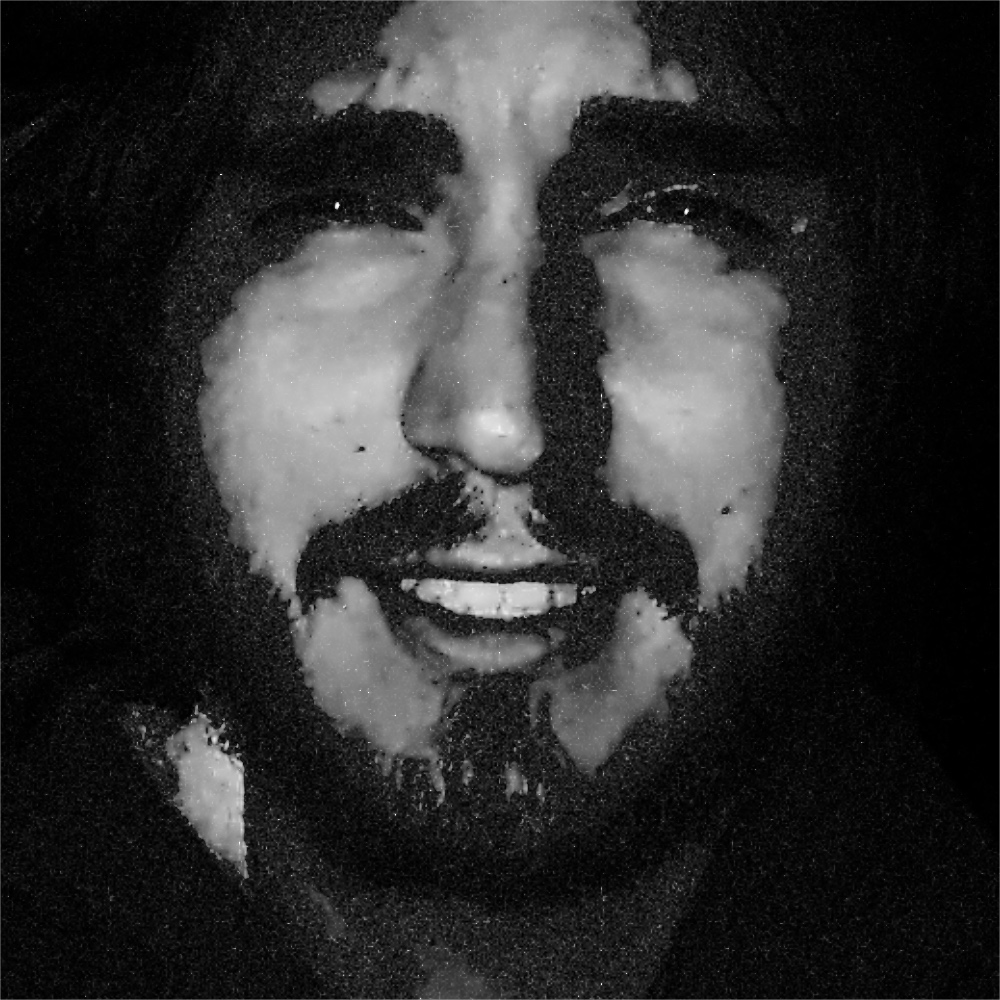
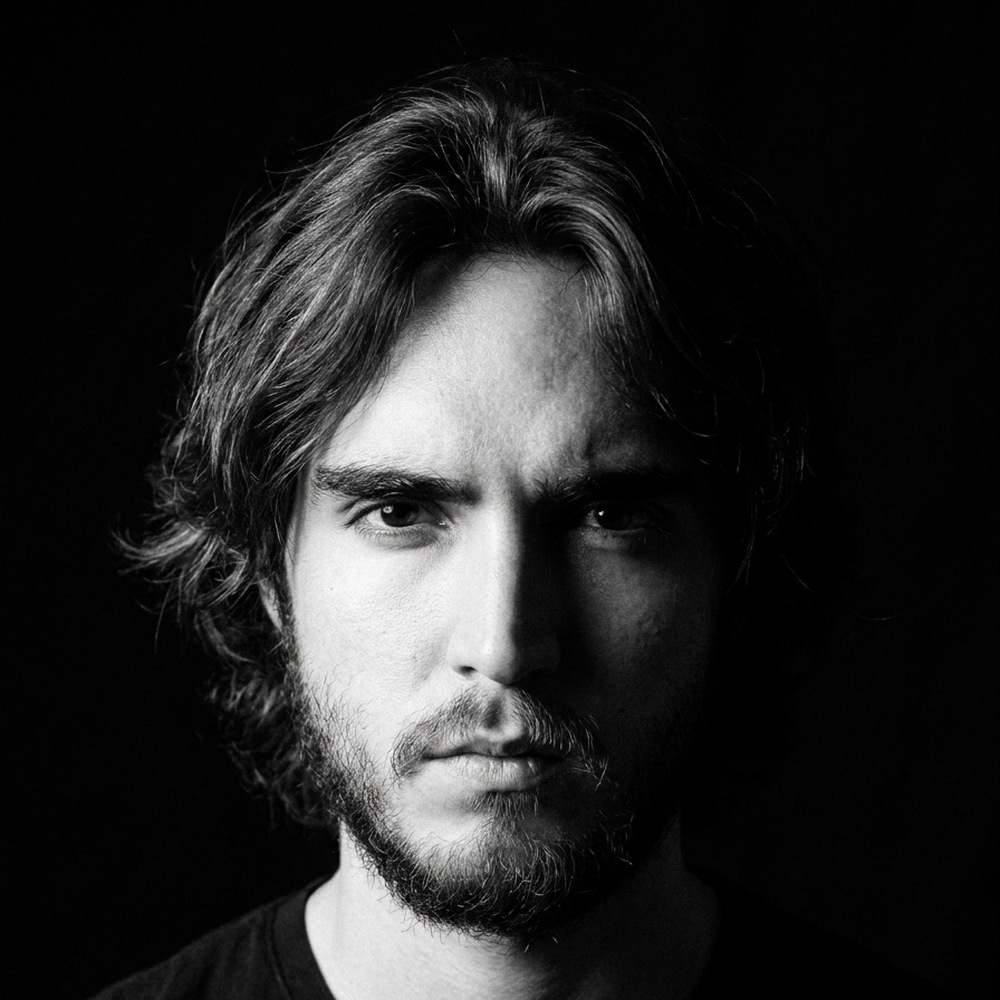
El perfil con las fotos generadas, y Fundadores de vuelta
Tres imágenes hechas en Higgsfield con SUS diez fotos como referencia:
el retrato en blanco y negro, y dos de la mesa —los charts, el ventanal
de noche, la libreta junto al teclado—.

El pelo salía hasta los hombros y era culpa del prompt: decía «pelo
largo» cuando el suyo es de largo medio. Con «apenas cubre las orejas,
NO llega a los hombros» quedó como él. Ese bloque queda anotado porque
es el que hace que salga André y no un modelo de stock.

Se les recorta la franja del logo de Higgsfield del pie: la marca de otra
herramienta no va en la web de la firma.

EN EL PERFIL, dos secciones nuevas. «Lo que hago» —mercados, sistemas,
datos, inteligencia artificial— dice lo que de verdad hace: opera MNQ,
construye el terminal con el que se mide, escribe sus indicadores en
Pine y usa IA como herramienta diaria. Sin títulos que no tiene y sin
cifras: los números cambian cada día y uno viejo quema la credibilidad,
que es el activo del negocio.

«La mesa» son las dos fotos del escritorio. Es el negocio, no decoración.

FUNDADORES vuelve a la landing —él la quitó cuando la foto era la
tratada a mano— ahora con el retrato bueno. Otra vez las TRES listas:
renglón del índice, DOC_SECS y mapa de rótulos.

diff --git a/index.html b/index.html
@@ -1259,6 +1259,33 @@ body.doc-open #indice{display:none}
 .jr-mit i{font-style:normal;font-size:7px;color:var(--faint)}
 @keyframes jrRueda{from{transform:translateX(0)}to{transform:translateX(-50%)}}
 @media (prefers-reduced-motion:reduce){ .jr-cin{animation:none} }
+
+/* ════ FUNDADORES ════ La foto grande y el nombre al lado. En el teléfono se
+   apila con la foto primero: la cara es lo que detiene el scroll. */
+.fund{display:grid;grid-template-columns:minmax(0,.9fr) minmax(0,1.1fr);
+  gap:clamp(28px,5vw,64px);align-items:center}
+.fund-foto{margin:0;position:relative;overflow:hidden;max-width:440px;
+  aspect-ratio:3/4;border:1px solid var(--line)}
+.fund-foto img{width:100%;height:100%;object-fit:cover;display:block}
+.fund-txt h3{font-size:clamp(38px,5.4vw,62px);font-weight:600;line-height:.96;
+  letter-spacing:-.03em;margin:0}
+.fund-rol{font-family:var(--mono);font-size:11px;letter-spacing:.26em;
+  text-transform:uppercase;color:var(--dim);margin:18px 0 0}
+.fund-cita{font-size:clamp(17px,1.9vw,21px);line-height:1.45;font-weight:500;
+  margin:26px 0 0;max-width:26ch;letter-spacing:-.01em}
+.fund-bio{font-size:clamp(14px,1.5vw,15.5px);line-height:1.62;color:var(--dim);
+  margin:18px 0 0;max-width:44ch;font-weight:300}
+.fund-tags{display:flex;gap:22px;flex-wrap:wrap;margin-top:24px;
+  font-family:var(--mono);font-size:10.5px;letter-spacing:.2em;color:var(--faint)}
+.fund-liga{display:inline-block;margin-top:26px;font-family:var(--mono);
+  font-size:11px;letter-spacing:.16em;text-decoration:none;color:var(--txt);
+  border-bottom:1px solid var(--line);padding-bottom:5px;transition:border-color .2s}
+.fund-liga:hover{border-color:currentColor}
+@media(max-width:760px){
+  .fund{grid-template-columns:minmax(0,1fr);gap:26px}
+  .fund-foto{max-width:280px}
+  .fund-cita,.fund-bio{max-width:none}
+}
 </style>
 </head>
 <body>
@@ -1323,8 +1350,11 @@ body.doc-open #indice{display:none}
       <a class="ix" href="#comunidad">
         <span class="nm"><em>Comunidad</em></span><span class="fr">/0.6</span>
       </a>
+      <a class="ix" href="#fundadores">
+        <span class="nm"><em>Fundadores</em></span><span class="fr">/0.7</span>
+      </a>
       <a class="ix" href="app.html">
-        <span class="nm"><em>Terminal</em></span><span class="fr">/0.7</span>
+        <span class="nm"><em>Terminal</em></span><span class="fr">/0.8</span>
       </a>
     </div>
   </div>
@@ -1472,6 +1502,30 @@ body.doc-open #indice{display:none}
   </a>
 </section>
 
+<section id="fundadores">
+  <!-- FUNDADORES · la cara de quien responde, ANTES de Programa: a nadie le
+       mandas tu historial de payouts sin saber a quién. La foto salió de las
+       suyas con Higgsfield — es él, no un banco de imágenes. -->
+  <div class="wrap">
+    <p class="micro rv" style="margin-bottom:30px">Quién responde</p>
+    <div class="fund rv">
+      <figure class="fund-foto">
+        <img src="marca/fotos/fundador.jpg" alt="André Macouzet" loading="lazy" width="896" height="1126">
+      </figure>
+      <div class="fund-txt">
+        <h3>André<br>Macouzet</h3>
+        <p class="fund-rol">Fundador</p>
+        <p class="fund-cita">«La paciencia es la ventaja. Todo lo demás es ruido.»</p>
+        <p class="fund-bio">Futuros del Nasdaq bajo una sola regla: un trade al día.
+          Construye la mesa y el software con el que se mide — el terminal, el
+          journal y los indicadores son suyos.</p>
+        <div class="fund-tags"><span>MERCADOS</span><span>SISTEMAS</span><span>DATOS</span></div>
+        <a class="fund-liga" href="perfil.html">VER PERFIL COMPLETO →</a>
+      </div>
+    </div>
+  </div>
+</section>
+
 <section id="programa">
   <!-- PROGRAM, otra vez con SU PROPIO apartado arriba de Terminal (André:
        «quita el prove it de bootcamp y dale su propio apartado como estaba
@@ -1575,7 +1629,7 @@ body.doc-open #indice{display:none}
   /* El índice ES la navegación: cada sección se abre como documento. Esta lista
      tiene que coincidir con las secciones que existen — un id de más deja un
      renglón del índice que no abre nada. */
-  var DOC_SECS = ['filosofia','mesa','educacion','journal','comunidad','programa'];
+  var DOC_SECS = ['filosofia','mesa','educacion','journal','comunidad','fundadores','programa'];
   document.querySelectorAll('a[href^="#"]').forEach(function(a){
     a.addEventListener('click', function(e){
       var href = a.getAttribute('href');
@@ -1641,7 +1695,8 @@ body.doc-open #indice{display:none}
       ['educacion','// BOOTCAMP /0.3'],
       ['journal','// JOURNAL /0.4'],
       ['programa','// PROGRAM /0.5'],
-      ['comunidad','// COMMUNITY /0.6']
+      ['comunidad','// COMMUNITY /0.6'],
+      ['fundadores','// FUNDADORES /0.7']
     ];
     var ioSec = new IntersectionObserver(function(es){
       es.forEach(function(e){

diff --git a/perfil.html b/perfil.html
@@ -71,6 +71,20 @@
   .retrato .e3{bottom:11px;left:11px;border-right:0;border-top:0}
   .retrato .e4{bottom:11px;right:11px;border-left:0;border-top:0}
 
+  /* lo que hace: cuatro columnas que se apilan solas */
+  .hace{display:grid;grid-template-columns:repeat(auto-fit,minmax(210px,1fr));
+        gap:clamp(22px,3vw,40px);margin-top:34px}
+  .hace-i h3{font-size:19px;font-weight:500;letter-spacing:-.015em}
+  .hace-i h3::before{content:"";display:block;width:22px;height:2px;
+        background:var(--oro);margin-bottom:13px}
+  .hace-i p{font-size:14.5px;line-height:1.62;color:var(--dim);margin-top:10px;font-weight:300}
+
+  /* la mesa, dos fotos a la par */
+  .mesa-fotos{display:grid;grid-template-columns:repeat(auto-fit,minmax(260px,1fr));
+        gap:14px;margin-top:32px}
+  .mesa-fotos figure{margin:0;border:1px solid var(--linea);overflow:hidden}
+  .mesa-fotos img{width:100%;height:100%;object-fit:cover;display:block}
+
   /* ── el cuerpo ── */
   .seccion{margin-top:clamp(76px,10vw,130px);border-top:1px solid var(--linea);
            padding-top:clamp(32px,4vw,50px)}
@@ -134,10 +148,7 @@
     <!-- El retrato. Mientras no haya foto, el hueco se ve a propósito. -->
     <figure class="retrato" id="retrato">
       <i class="esq e1"></i><i class="esq e2"></i><i class="esq e3"></i><i class="esq e4"></i>
-      <div class="vacio">
-        <b>RETRATO</b>
-        <i>Aquí va la foto — luz dura de un lado, fondo negro, camiseta negra.</i>
-      </div>
+      <img src="marca/fotos/retrato.jpg" alt="André Macouzet" width="896" height="1126">
     </figure>
   </header>
 
@@ -168,6 +179,47 @@
            inventa.</p>
       </div>
     </div>
+  </section>
+
+  <section class="seccion">
+    <h2>Lo que hago</h2>
+    <div class="hace">
+      <div class="hace-i">
+        <h3>Mercados</h3>
+        <p>Futuros del Nasdaq, el micro (MNQ). Cuentas de fondeo, retiros cobrados,
+           todo registrado trade por trade. Un solo trade al día.</p>
+      </div>
+      <div class="hace-i">
+        <h3>Sistemas</h3>
+        <p>Construyo el software con el que opero: un terminal que mide cada fill,
+           calcula el drawdown contra las reglas reales de cada fondeadora y marca
+           el día en que una regla se rompió.</p>
+      </div>
+      <div class="hace-i">
+        <h3>Datos</h3>
+        <p>Backtesting e indicadores propios en Pine. Lo que no aguanta la prueba
+           se tira: un indicador que no gana en el histórico no entra a la mesa
+           porque «se ve bien».</p>
+      </div>
+      <div class="hace-i">
+        <h3>Inteligencia artificial</h3>
+        <p>Todo lo que ves aquí —el terminal, la firma, el bootcamp— está
+           construido con IA como herramienta de trabajo diaria, no como adorno.</p>
+      </div>
+    </div>
+  </section>
+
+  <!-- LA MESA, en imágenes: es el negocio, no una decoración -->
+  <section class="seccion">
+    <h2>La mesa</h2>
+    <div class="mesa-fotos">
+      <figure><img src="marca/fotos/mesa-teclado.jpg" alt="André en la mesa, de noche"
+                   loading="lazy" width="896" height="1126"></figure>
+      <figure><img src="marca/fotos/mesa-perfil.jpg" alt="Los dos charts, sesión de noche"
+                   loading="lazy" width="896" height="1126"></figure>
+    </div>
+    <p class="texto">Dos pantallas: una para el contexto, otra para ejecutar. La libreta
+      siempre abierta al lado — cada trade se escribe, con captura, el mismo día.</p>
   </section>
 
   <section class="seccion">
@@ -225,18 +277,7 @@
   var tmr; addEventListener('resize', function(){ clearTimeout(tmr); tmr = setTimeout(pinta, 160); });
 })();
 
-/* La foto se pone sola en cuanto exista marca/fotos/retrato.jpg — así no hay que
-   tocar el HTML cuando salga de Higgsfield. */
-(function(){
-  var img = new Image();
-  img.onload = function(){
-    var f = document.getElementById('retrato');
-    f.querySelector('.vacio').remove();
-    f.insertBefore(img, f.firstChild);
-    img.alt = 'André Macouzet';
-  };
-  img.src = 'marca/fotos/retrato.jpg';
-})();
+/* El retrato ya vive en el HTML: la foto existe y no hay nada que esperar. */
 </script>
 </body>
 </html>
